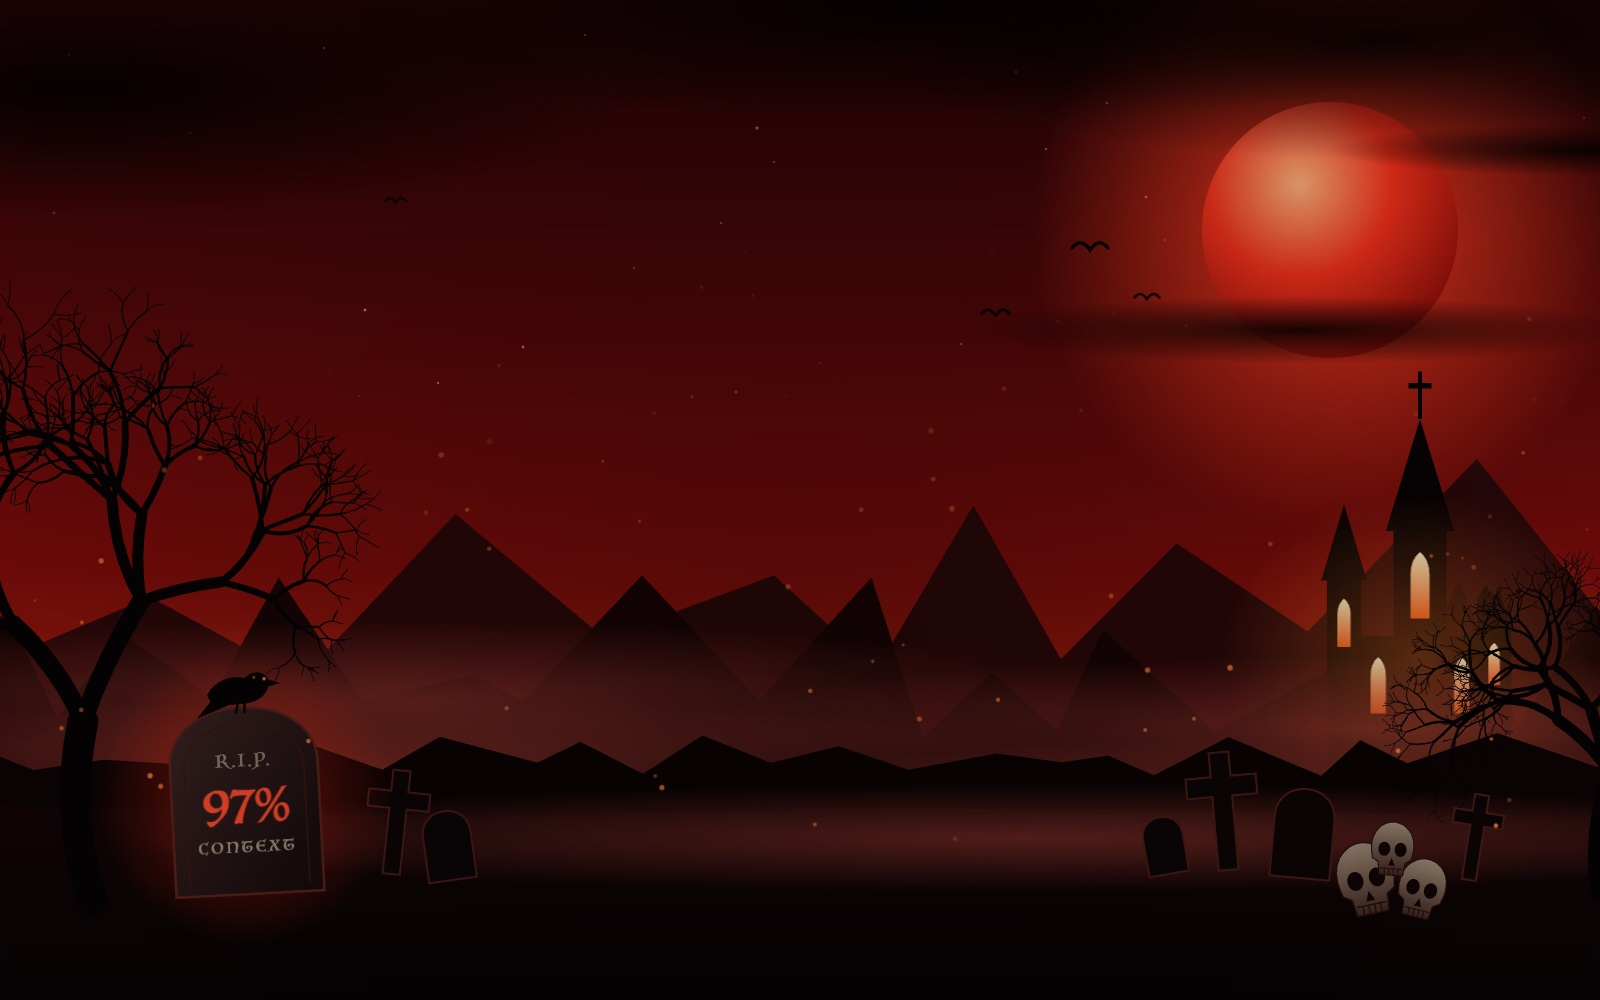
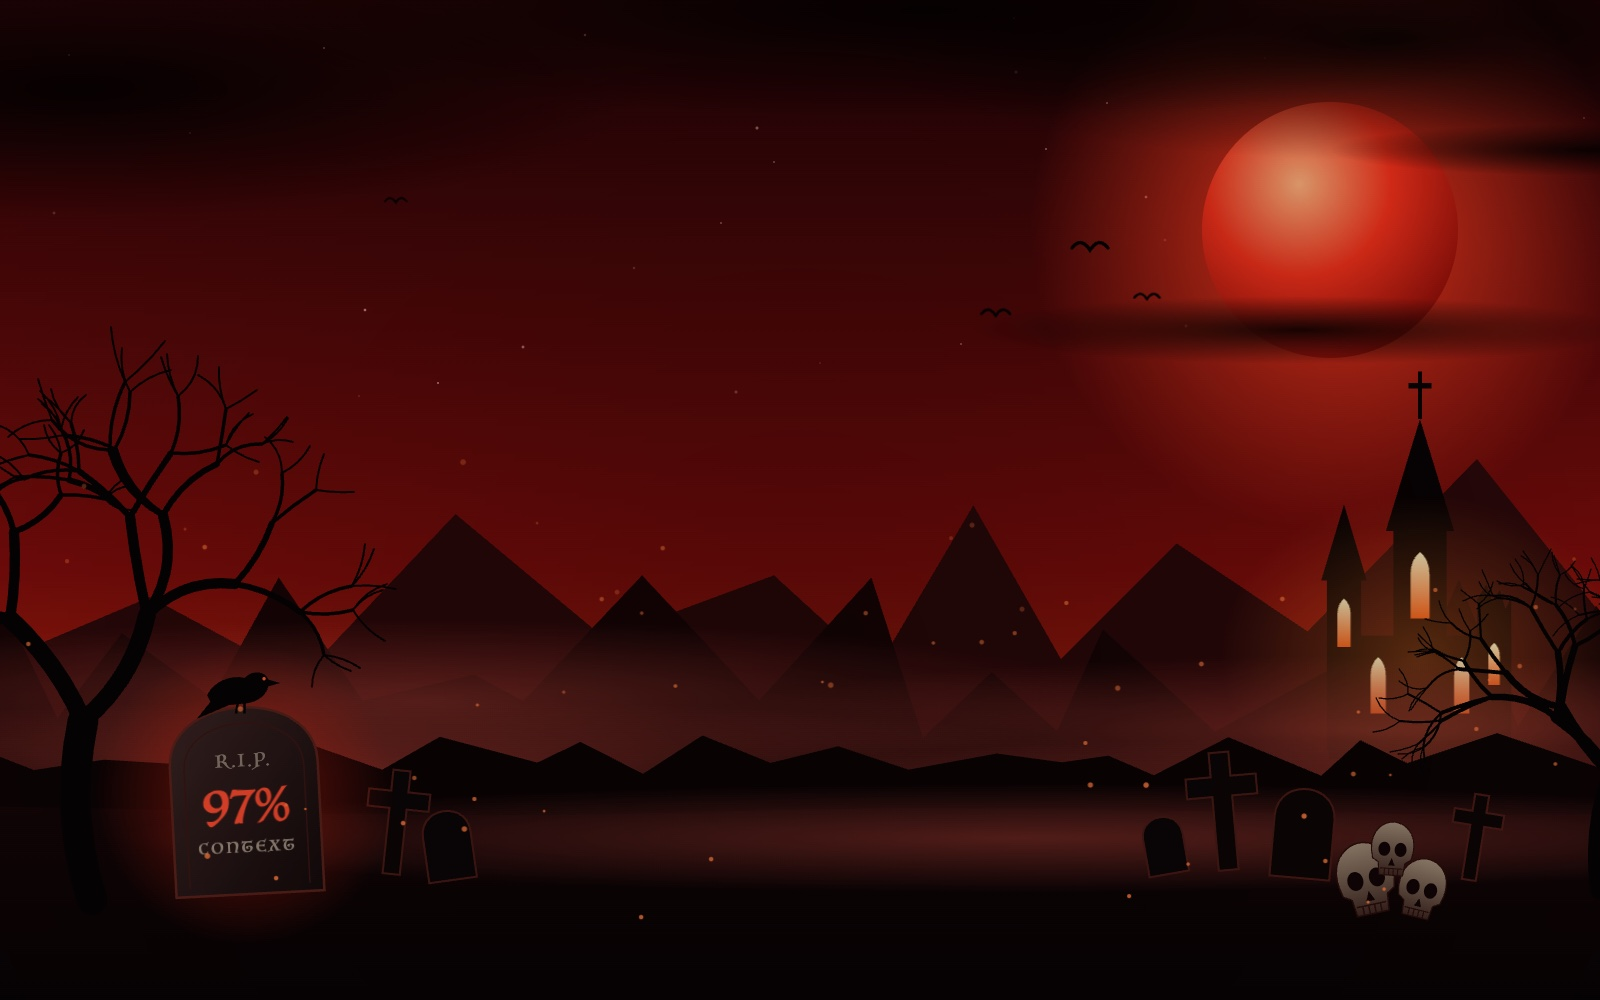
Make the scene's animations play in the desktop app
The app drew the scene but played none of its animations. Two changes fix it:

- No group is positioned by a stylesheet rule any more. The CSS variables and
  aspect-ratio media queries that moved parts of the scene are gone, and the
  scene is anchored to the bottom of the window instead.
- The drawing is lighter: trees fork five times, not seven, and the embers rise
  as six groups, not one by one.

Also softens the ember drift and re-renders the README pictures.

Changed region(s): [[0.0, 0.31, 0.25, 0.713], [0.8438, 0.558, 1.0, 0.775]]

diff --git a/hooks/register.tsx b/hooks/register.tsx
@@ -130,6 +130,12 @@ function drawRidge(seed: number, baseY: number, height: number, step: number, co
   return `<path d="M-400,1700 L${points.join(' L')} L2000,1700Z" fill="${color}"/>`
 }
 
+// How many times a tree's branches fork. The desktop app plays a scene's
+// animations only while the drawing stays light, and a tree's stroke count
+// roughly doubles with each fork: 7 forks came to about 900 strokes a tree and
+// the scene stood still. 5 forks is about 100.
+const TREE_FORKS = 5
+
 /**
  * A dead tree, grown one branch at a time: each branch ends in two or three
  * thinner, shorter branches that bend away from it.
@@ -165,11 +171,11 @@ function drawDeadTree(seed: number, x: number, y: number, height: number, lean: 
       const side = index % 2 === 0 ? 1 : -1
       const spread = side * (0.3 + random() * 0.6)
 
-      grow(toX, toY, angle + spread, length * (0.6 + random() * 0.22), width * 0.6, depth - 1)
+      grow(toX, toY, angle + spread, length * (0.64 + random() * 0.2), width * 0.58, depth - 1)
     }
   }
 
-  grow(x, y, Math.PI / 2 + lean, height * 0.32, height * 0.055, 7)
+  grow(x, y, Math.PI / 2 + lean, height * 0.32, height * 0.055, TREE_FORKS)
 
   const paths = [...levels.values()].map(
     level => `<path d="${level.segments.join('')}" stroke-width="${round(level.width)}"/>`,
@@ -261,20 +267,31 @@ function drawStars(): string {
   return `<g fill="#ffb8a0">${stars.join('')}</g>`
 }
 
+// Embers rise in a few groups, not one by one: each group is a single
+// animation, which keeps the scene light enough for the app to play it.
+const EMBER_GROUPS = 6
+
 function drawEmbers(count: number): string {
   const random = createRandom(29)
-  const embers: string[] = []
+  const groups: string[][] = Array.from({ length: EMBER_GROUPS }, () => [])
 
   for (let index = 0; index < count; index += 1) {
     const x = Math.round(random() * 1600)
-    const y = Math.round(720 + random() * 200)
+    const y = Math.round(740 + random() * 200)
     const radius = (1.2 + random() * 1.6).toFixed(1)
-    const delay = (random() * 14).toFixed(1)
 
-    embers.push(`<circle class="ember" cx="${x}" cy="${y}" r="${radius}" style="animation-delay:-${delay}s"/>`)
+    groups[index % EMBER_GROUPS]?.push(`<circle cx="${x}" cy="${y}" r="${radius}"/>`)
   }
 
-  return `<g fill="#ff7a3c">${embers.join('')}</g>`
+  const drawn = groups.map((embers, index) => {
+    // Each group has its own pace and starting point, so they do not rise in step.
+    const seconds = 12 + index * 1.7
+    const delay = (seconds * index) / EMBER_GROUPS
+
+    return `<g class="ember" style="animation-duration:${seconds.toFixed(1)}s;animation-delay:-${delay.toFixed(1)}s">${embers.join('')}</g>`
+  })
+
+  return `<g fill="#ff7a3c">${drawn.join('')}</g>`
 }
 
 /** A forked lightning bolt from the top of the sky. It is hidden except while it flashes. */
@@ -320,28 +337,19 @@ ${figure}
 </g>`
 }
 
+// No group in the scene is positioned by a stylesheet rule. An earlier version
+// moved the land, the moon and the edge pieces with CSS variables and aspect-ratio
+// media queries, to suit the window's shape, and the desktop app then played none
+// of the scene's animations. The scene is anchored to the bottom of the window
+// instead (preserveAspectRatio "xMidYMax slice"), so a wide window crops sky,
+// not graveyard.
 const STYLE = `
-:root{--dx:0px;--dy:0px}
-.land{transform:translateY(calc(var(--dy) * -1))}
-.left{transform:translateX(var(--dx))}
-.right{transform:translateX(calc(var(--dx) * -1))}
-.sky-left{transform:translate(var(--dx),var(--dy))}
-.sky-right{transform:translate(calc(var(--dx) * -1),var(--dy))}
-/* A wide window crops the top and bottom, so the land moves up and the sky pieces move down. */
-@media (min-aspect-ratio:19/10){:root{--dy:110px}}
-@media (min-aspect-ratio:22/10){:root{--dy:180px}}
-@media (min-aspect-ratio:26/10){:root{--dy:250px}}
-/* A narrow window crops the sides, so the pieces at the edges move toward the middle. */
-@media (max-aspect-ratio:14/10){:root{--dx:200px}}
-@media (max-aspect-ratio:115/100){:root{--dx:330px}}
-@media (max-aspect-ratio:9/10){:root{--dx:440px}}
-@media (max-aspect-ratio:7/10){:root{--dx:560px}.right{display:none}}
 .halo{transform-origin:1330px 230px;animation:pulse 9s ease-in-out infinite}
 .cloud{animation:drift 90s ease-in-out infinite alternate}
 .cloud.slow{animation-duration:140s;animation-direction:alternate-reverse}
 .fog{animation:drift 60s ease-in-out infinite alternate}
 .fog.slow{animation-duration:85s;animation-direction:alternate-reverse}
-.ember{animation:rise 14s linear infinite}
+.ember{animation:rise 14s ease-in-out infinite}
 .windows{animation:flicker 5s ease-in-out infinite}
 .flight{animation:fly 26s ease-in-out infinite alternate}
 .flap{transform-origin:0 0;animation:flap 0.9s ease-in-out infinite}
@@ -351,7 +359,7 @@ const STYLE = `
 @keyframes warn{50%{opacity:0.45}}
 @keyframes pulse{50%{transform:scale(1.08);opacity:0.8}}
 @keyframes drift{from{transform:translateX(-120px)}to{transform:translateX(120px)}}
-@keyframes rise{0%{transform:translate(0,0);opacity:0}10%{opacity:0.9}100%{transform:translate(40px,-520px);opacity:0}}
+@keyframes rise{0%{transform:translate(0,0);opacity:0}15%{opacity:0.9}70%{opacity:0.6}100%{transform:translate(36px,-300px);opacity:0}}
 @keyframes flicker{0%,100%{opacity:0.95}40%{opacity:0.7}55%{opacity:1}70%{opacity:0.8}}
 @keyframes fly{from{transform:translate(0,0)}to{transform:translate(-160px,-50px)}}
 @keyframes flap{50%{transform:scaleY(0.35)}}
@@ -390,36 +398,36 @@ function buildScene(percent: number | undefined): string {
     ? '<g class="fog slow"><ellipse cx="300" cy="700" rx="700" ry="80" fill="url(#fog)"/><ellipse cx="1250" cy="730" rx="700" ry="74" fill="url(#fog)"/></g>'
     : ''
 
-  return `<svg xmlns="http://www.w3.org/2000/svg" viewBox="0 0 1600 1000" width="100%" height="100%" preserveAspectRatio="xMidYMid slice">
+  return `<svg xmlns="http://www.w3.org/2000/svg" viewBox="0 0 1600 1000" width="100%" height="100%" preserveAspectRatio="xMidYMax slice">
 <style>${STYLE}${strike}</style>
 <defs>${buildDefinitions(stage)}</defs>
 <rect x="-400" y="-600" width="2400" height="1500" fill="url(#sky)"/>
 ${drawStars()}
-<g class="sky-right">
+<g>
 <circle class="halo" cx="1330" cy="230" r="300" fill="url(#halo)"/>
 <circle cx="1330" cy="230" r="128" fill="url(#moon)"/>
 </g>
-<g class="sky-left">${drawLightning()}</g>
+<g>${drawLightning()}</g>
 <rect class="flash" x="-400" y="-600" width="2400" height="2300" fill="#ff7a5a"/>
 <g class="cloud"><ellipse cx="200" cy="90" rx="560" ry="130" fill="url(#cloud)"/><ellipse cx="1500" cy="40" rx="520" ry="120" fill="url(#cloud)"/></g>
 <g class="cloud slow"><ellipse cx="800" cy="10" rx="700" ry="110" fill="url(#cloud)"/><ellipse cx="1180" cy="330" rx="330" ry="34" fill="url(#cloud)"/><ellipse cx="1470" cy="150" rx="260" ry="26" fill="url(#cloud)"/></g>
 ${drawFlock()}
-<g class="land">
+<g>
 ${drawRidge(3, 690, 250, 120, '#2a0809')}
 ${drawRidge(8, 740, 170, 90, '#170405')}
-<g class="right">${drawCathedral(1420, 742, 0.95, stage.isBlazing)}</g>
+<g>${drawCathedral(1420, 742, 0.95, stage.isBlazing)}</g>
 ${extraFog}
 <g class="fog"><ellipse cx="500" cy="770" rx="760" ry="70" fill="url(#fog)"/><ellipse cx="1400" cy="800" rx="640" ry="60" fill="url(#fog)"/></g>
 ${drawRidge(15, 776, 46, 70, '#0b0304')}
 <path d="M-400,816 C0,790 300,826 700,812 C1100,798 1400,830 2000,804 V1700 H-400Z" fill="url(#ground)"/>
 <g class="fog slow"><ellipse cx="900" cy="838" rx="900" ry="54" fill="url(#fog)"/></g>
-<g class="left">
+<g>
 ${drawDeadTree(17, 92, 900, 560, 0.05)}
 ${drawCross(392, 866, 96, 6)}${drawHeadstone(452, 872, 24, 62, -8)}
 ${drawContextStone(percent, stage.isWarning)}
 ${drawRaven(236, 700, 0.85)}
 </g>
-<g class="right">
+<g>
 ${drawDeadTree(44, 1600, 890, 360, -0.1)}
 ${drawCross(1228, 862, 110, -5)}${drawHeadstone(1300, 870, 30, 82, 5)}${drawCross(1470, 872, 78, 9)}${drawHeadstone(1168, 866, 20, 50, -10)}
 ${drawSkull(1368, 888, 1, -12)}${drawSkull(1420, 896, 0.82, 14)}${drawSkull(1392, 856, 0.74, 4)}

diff --git a/README.md b/README.md
@@ -101,6 +101,15 @@ Everything is in `hooks/register.tsx`:
 The plugin icon, `.claude-plugin/icon.png`, is `art/raven-icon.svg` rendered at
 1024 by 1024 pixels.
 
+Two things keep the scene moving in the desktop app, both learned the hard way:
+
+- **Keep the drawing light.** The app plays a scene's animations only while the
+  drawing stays light, so the trees fork five times, not seven, and the embers
+  rise as six groups, not one by one.
+- **Do not position groups with stylesheet rules.** An earlier version moved
+  parts of the scene with CSS variables and aspect-ratio media queries, and the
+  app then played none of the animations. Use `transform` attributes instead.
+
 `hooks/make-colors.js` and `hooks/make-colors.d.ts` are copied unchanged from
 Claude Code's plugin-authoring skill, which provides them for mods to copy.
 
